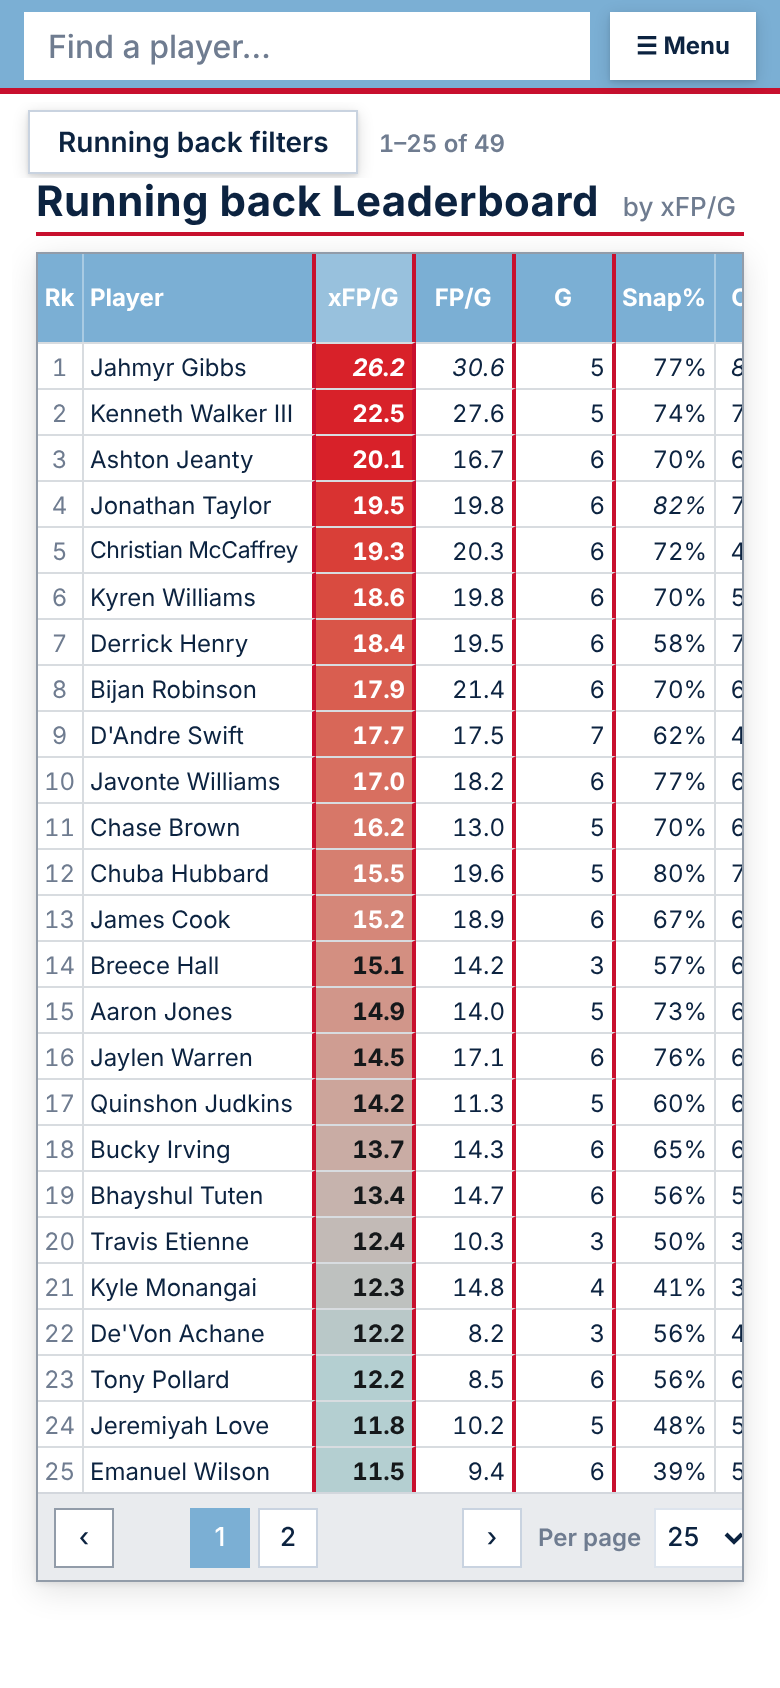
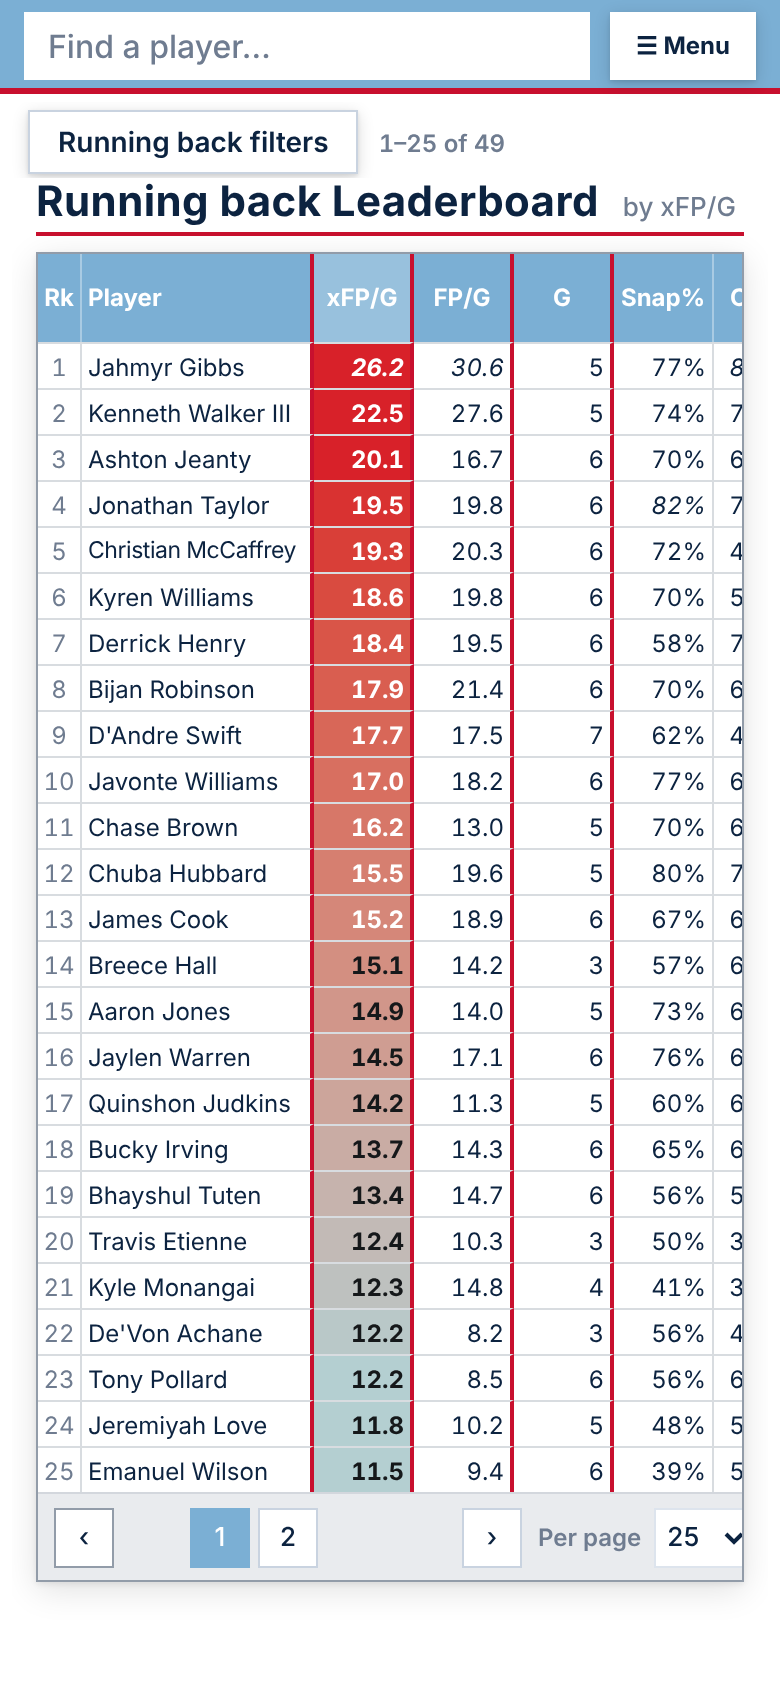
Neutral FP per route: his targets per route x his neutral points per target
Claude-Session: https://claude.ai/code/session_01KQwiMS6vcaegjuYeaB7Pac

diff --git a/fb.js b/fb.js
@@ -134,7 +134,7 @@
     const hasQ = p.ftgt > 0 && p.fcat != null, qa = hasQ ? (p.xcat - p.fcat) * (p.vcat / p.ftgt) / t : 0, rest = ((p.fp || 0) - (p.frt || 0)) / G;
     const fin = xppt + (ppt + qa - xppt) * w, dVol = (tpgN - tpgA) * ppt, dQb = tpgN * qa, dLuck = tpgN * (fin - (ppt + qa));
     return { y, lg, teamTpg: p.tmt / G, ts: t / p.tmt, tpgA, tpgN, ppt, xppt, qa, w, rest, hasQ, catA: hasQ ? p.fcat / p.ftgt : null, catX: hasQ ? p.xcat / p.ftgt : null,
-             dVol, dQb, dLuck, nfpg: tpgN * fin + rest };
+             dVol, dQb, dLuck, npt: fin, nfpg: tpgN * fin + rest };
   }
   function M(p) {
     if (memo.has(p)) return memo.get(p);
@@ -163,6 +163,10 @@
       oppg: opp / g, fppo: opp ? ((p.frt || 0) + (p.fru || 0)) / opp : null, fppt: touch ? p.fp / touch : null,
       xppo: opp ? ((p.xr || 0) + (p.xu || 0)) / opp : null,
       fpg: p.fp / g, xfpg: xfp / g, fpoeg: (p.fp - xfp) / g, nfpg: (neutralOf(p) || {}).nfpg ?? null,
+      // per route (24 Oct 2026; Sean: "this exact stat but on a per route basis too"): his targets per route x his neutral points per target —
+      // team volume drops out per route; receiving only. Every WR season with 40+ targets 2022-24 against the next: repeats at r .66
+      // (receiving FP / route .58), next season's FP / route .60 (.58), for receivers who changed teams .60 (.54); level with TPRR and xFP / route
+      nfprr: (() => { const n = neutralOf(p); return n && p.rts >= 1 ? (p.tgt / p.rts) * n.npt : null; })(),
       tdoe: ((p.rtd || 0) + (p.rutd || 0)) - ((p.xtr || 0) + (p.xtu || 0)),
       epadb: p.db ? p.epa / p.db : null, cpoe: p.cpoe, sackp: p.db ? 100 * p.sk / p.db : null,
       ruxg: (p.xu || 0) / g, carg: (p.car || 0) / g,
@@ -229,6 +233,7 @@
     fpg: { h: "FP/G", d: 1, hib: 1, t: "PPR points per game" },
     xfpg: { h: "xFP/G", d: 1, hib: 1, t: "Expected PPR points per game: each target and carry priced by depth, field position, down and distance" },
     fpoeg: { h: "FPOE/G", d: 1, s: 1, hib: 1, t: "PPR points over expected, per game" },
+    nfprr: { h: "nFP/RR", d: 2, hib: 1, t: "Neutral FP per route run: his targets per route × his points per target with his QB's missed catchable balls given back, pulled toward what his targets are worth by targets / (targets + 200) — receiving only, so his team's pass volume drops out. Repeats year to year at r .66 against .58 for his actual receiving FP per route" },
     nfpg: { h: "nFP/G", d: 1, hib: 1, t: "Neutral FP / game: his points in a league-average offense. His target share stays his; his team's pass volume becomes the league's, the catchable balls his QB missed are given back (FTN's catchable-ball charting, 2022 on), and his points per target are pulled toward what his targets are worth by targets / (targets + 200). For receivers who changed teams it reads next season's FP / G better than FP / G (r .69 vs .62)" },
     tdoe: { h: "TDOE", d: 1, s: 1, hib: 1, t: "Touchdowns over expected" },
     epadb: { h: "EPA/db", d: 2, s: 1, hib: 1, t: "Expected points added per dropback" }, cpoe: { h: "CPOE", d: 1, s: 1, hib: 1, t: "Completion % over expected" },
@@ -271,7 +276,7 @@
   };
   const fmtM = (k, v) => { const d = METRIC[k] || { d: 1 }; return d.s ? sgn(v, d.d) : d.p ? pc(v, d.d) : num(v, d.d); };
   const COLS = {
-    WR: [["Basic", ["g", "tgt", "rec", "ryd", "rtd"]], ["Usage", ["rte", "tprr", "tgtsh", "aysh", "adot", "wopr", "awopr", "rzt"]], ["Weighted opportunity", ["wos", "rzs", "ezs"]], ["Efficiency", ["yprr", "syprr", "ypr", "croe", "yacoe", "nyoe"]], ["Fantasy", ["xfpg", "fpg", "nfpg", "fpoeg", "tdoe"]]],
+    WR: [["Basic", ["g", "tgt", "rec", "ryd", "rtd"]], ["Usage", ["rte", "tprr", "tgtsh", "aysh", "adot", "wopr", "awopr", "rzt"]], ["Weighted opportunity", ["wos", "rzs", "ezs"]], ["Efficiency", ["yprr", "syprr", "ypr", "croe", "yacoe", "nyoe"]], ["Fantasy", ["xfpg", "fpg", "nfpg", "nfprr", "fpoeg", "tdoe"]]],
     RB: [["Basic", ["g", "car", "ruyd", "rutd", "tgt", "rec", "ryd"]], ["Usage", ["snp", "carsh", "tgtsh", "oppg", "glc", "rzc"]], ["Weighted opportunity", ["wog", "wos", "hvtg", "hvtp", "rzs", "gls"]], ["Efficiency", ["ypc", "ryoe", "yprr", "syprr", "fppo", "expl", "ybca"]], ["Fantasy", ["xfpg", "fpg", "fpoeg", "tdoe"]]],
     QB: [["Passing", ["g", "att", "cmpp", "pyd", "ptd", "int"]], ["Efficiency", ["epadb", "cpoe", "sackp"]], ["Rushing", ["car", "ruyd", "rutd", "ruxg"]], ["Fantasy", ["xfpg", "fpg", "fpoeg"]]],
   };
@@ -576,7 +581,7 @@
   // high-value touches and goal-line work. Quarterbacks: passing volume and touchdowns, efficiency, and rushing (Rush xFP/G). Every other
   // column is still in Filters ▸ Stats (the All set, or each group).
   const CORE = {
-    WR: ["fpg", "nfpg", "g", "rte", "tprr", "tgtsh", "wopr", "awopr", "rzt", "wos", "yprr", "syprr"],
+    WR: ["fpg", "nfpg", "nfprr", "g", "rte", "tprr", "tgtsh", "wopr", "awopr", "rzt", "wos", "yprr", "syprr"],
     RB: ["fpg", "g", "snp", "carsh", "tgtsh", "oppg", "wog", "wos", "hvtg", "gls", "rzs"],
     QB: ["g", "att", "pyd", "ptd", "int", "epadb", "car", "ruxg", "xfpg"],
   };
@@ -721,13 +726,13 @@
 
   // ---------- Player page ----------
   const BARS = {
-    WR: [[["Opportunity", ["rte", "tgtsh", "tprr", "aysh", "rzt"]], ["Fantasy", ["xfpg", "fpg", "nfpg", "fpoeg", "tdoe"]], ["Profile", ["adot", "wopr", "awopr", "snp"]]], [["Weighted opportunity", ["wos", "rzs", "ezs"]], ["Efficiency", ["yprr", "syprr", "croe", "yacoe", "nyoe", "ypr"]]]],
+    WR: [[["Opportunity", ["rte", "tgtsh", "tprr", "aysh", "rzt"]], ["Fantasy", ["xfpg", "fpg", "nfpg", "nfprr", "fpoeg", "tdoe"]], ["Profile", ["adot", "wopr", "awopr", "snp"]]], [["Weighted opportunity", ["wos", "rzs", "ezs"]], ["Efficiency", ["yprr", "syprr", "croe", "yacoe", "nyoe", "ypr"]]]],
     RB: [[["Opportunity", ["snp", "carsh", "tgtsh", "oppg", "glc"]], ["Weighted opportunity", ["wog", "wos", "hvtg", "hvtp", "rzs", "gls"]], ["Fantasy", ["xfpg", "fpg", "fpoeg", "tdoe"]]], [["Efficiency", ["ypc", "ryoe", "expl", "ybca", "fppo"]], ["Receiving", ["tprr", "yprr", "syprr"]]]],
     QB: [[["Passing", ["epadb", "cpoe", "cmpp", "sackp"]], ["Fantasy", ["xfpg", "fpg", "fpoeg"]]], [["Rushing", ["carg", "ruxg", "ypc", "rutd"]], ["Volume", ["att", "pyd", "ptd"]]]],
   };
   BARS.TE = BARS.WR;
   const LABEL = { rte: "Route %", tgtsh: "Target share", tprr: "Targets / route", aysh: "Air-yard share", rzt: "Red-zone targets", xfpg: "xFP / game", fpg: "FP / game", fpoeg: "Points over exp. / G",
-                  tdoe: "TD over expected", nfpg: "Neutral FP / game", yprr: "Yards / route", syprr: "Stable YPRR", croe: "Catch rate over exp.", yacoe: "YAC over exp.", ypr: "Yards / catch", adot: "aDOT", wopr: "WOPR", awopr: "Adjusted WOPR", snp: "Snap %",
+                  tdoe: "TD over expected", nfpg: "Neutral FP / game", nfprr: "Neutral FP / route", yprr: "Yards / route", syprr: "Stable YPRR", croe: "Catch rate over exp.", yacoe: "YAC over exp.", ypr: "Yards / catch", adot: "aDOT", wopr: "WOPR", awopr: "Adjusted WOPR", snp: "Snap %",
                   carsh: "Carry share", oppg: "Opportunities / G", glc: "Goal-line carries", ypc: "Yards / carry", ryoe: "Rush yds over exp.", fppo: "FP / opportunity",
                   epadb: "EPA / dropback", cpoe: "CPOE", cmpp: "Completion %", sackp: "Sack %", carg: "Carries / game", ruxg: "Rush xFP / game", rutd: "Rush TD", att: "Attempts", pyd: "Pass yards", ptd: "Pass TD",
                   sep: "Separation", sepoe: "Separation over exp.", cont: "Contested target %", contoe: "Contested over exp.", cush: "Cushion", nyoe: "YAC over exp. (NGS)", brkr: "Broken tackles / catch", dropp: "Drop %", brka: "Broken tackles / carry", ybca: "Yds before contact", yaca: "Yds after contact", eff: "Efficiency (NGS)", tlos: "Time to the line",
@@ -1167,6 +1172,16 @@
     const fin = row("Points per target, regressed", num(n.ppt + n.qa, 2), num(n.xppt, 2), n.dLuck, `What he did with each target (${num(n.ppt + n.qa, 2)} points, QB misses given back) against what his targets are worth (${num(n.xppt, 2)}), kept at ${Math.round(100 * n.w)}% — targets / (targets + ${NK}): over one season it is mostly luck`, null, "kexp");
     fin[4].dataset.exp = "Neutral FP/G"; fin[4].title = "Neutral FP / game: what he would score in a league-average offense"; t.addRow(fin);
     t.box.classList.add("kbox"); c.append(t.box);
+    if (p.rts >= 1) {   // per route: team volume drops out, so it is his targets per route x his neutral points per target
+      const avg = (f) => { const v = ref.map(f).filter((x) => x != null && isFinite(x)); return v.length ? v.reduce((a, b) => a + b, 0) / v.length : null; };
+      const fr = (q) => (q.rts >= 1 ? (q.frt || 0) / q.rts : null), tr = (q) => (q.rts >= 1 ? q.tgt / q.rts : null), nr = (q) => M(q).nfprr;
+      const t3 = table([{ cols: [{ h: "Per route", cls: "l fz" }], end: 1 }, { cols: [{ h: "His" }, { h: "Lg" }] }], { front: false });
+      const r3 = (lab, f, d, tip) => { const L = td(lab, "l fz"); L.title = tip; const h = td(num(f(p), d)); const pc0 = rk(f); if (pc0 != null) paint(h, pc0); t3.addRow([L, h, td(num(avg(f), d))]); };
+      r3("Targets / route % (his)", (q) => (tr(q) == null ? null : 100 * tr(q)), 1, "How often he's thrown to when he runs a route — his own skill, so it stays");
+      r3("FP / route", fr, 2, "His receiving points per route run, as scored");
+      r3("Neutral FP / route", nr, 2, "His targets per route × his neutral points per target (his QB's misses given back, regressed): per route his team's pass volume drops out");
+      t3.box.classList.add("kbox"); c.append(t3.box);
+    }
     const off = n.dVol + n.dQb;
     c.append(el("p", "note", `${off <= -0.05 ? `His offense adds ${num(-off)} points a game` : off >= 0.05 ? `His offense costs him ${num(off)} points a game` : "His offense is about average for him"} (pass volume ${sgn(n.dVol)}, QB ${n.hasQ ? sgn(n.dQb) : "–"}). His target share is his and stays in. ${n.hasQ ? "" : "FTN's catchable-ball charting starts in 2022, so this season has no QB step. "}Rushing points count as scored. Tested on every receiver season with 40+ targets 2022-24: for players who changed teams, neutral FP / G read next season's points better than FP / G (r .69 against .62).`));
     host.append(c);

diff --git a/index.html b/index.html
@@ -10,14 +10,14 @@
 <link rel="manifest" href="manifest.json">
 <link rel="icon" href="icons/icon-32.png" sizes="32x32">
 <link rel="apple-touch-icon" href="icons/icon-180.png">
-<script src="themes.js?v=0f29b1f959"></script>
-<link rel="stylesheet" href="fb.css?v=0f29b1f959">
-<script>window.FB_BUILD = "0f29b1f959";</script>
+<script src="themes.js?v=a853f28232"></script>
+<link rel="stylesheet" href="fb.css?v=a853f28232">
+<script>window.FB_BUILD = "a853f28232";</script>
 </head>
 <body>
 <main><p class="load">Loading…</p></main>
-<script src="data/index.js?v=0f29b1f959"></script>
-<script src="data/teams.js?v=0f29b1f959"></script>
-<script src="fb.js?v=0f29b1f959"></script>
+<script src="data/index.js?v=a853f28232"></script>
+<script src="data/teams.js?v=a853f28232"></script>
+<script src="fb.js?v=a853f28232"></script>
 </body>
 </html>

diff --git a/CLAUDE.md b/CLAUDE.md
@@ -764,3 +764,15 @@ nFP/G = (his target share × the league's team targets per game) × (xFP per tar
 * k 200 was the best balance of 50-400.
 
 Michael Wilson 2026: 11.9 FP/G → 14.0 nFP/G. Arizona's pass volume takes 1.8 off at a neutral offense, his QB's catchable rate (64% vs 70%) gives back 1.4, and his poor conversion over six games regresses +2.5.
+
+**Per route** (Sean, 24 Oct 2026: "this exact stat but on a per route basis too"): **nFP/RR** (`nfprr` in `M()`).
+* **Formula**: his targets per route × his neutral points per target (`neutralOf(p).npt`: his QB's misses given back, regressed by targets / (targets + 200)). Receiving only, so team volume drops out.
+* **Where it shows**: Leaders' Fantasy group and the WR / TE core after nFP/G, a "Neutral FP / route" bar, and a Per route table in the Neutral FP/G tab (Targets / route % (his), FP / route, Neutral FP / route, his against the qualifiers' average).
+* **The test** (scratch `osep/nrr.py`, the same pairs):
+
+| | Repeats | Next FP / route | Next FP / route, movers |
+|---|---|---|---|
+| nFP/RR | .66 | .60 | .60 |
+| Receiving FP / route | .58 | .58 | .54 |
+
+  It is level with TPRR and xFP / route. Tight ends are weaker throughout: .46 repeat, .40 next.
